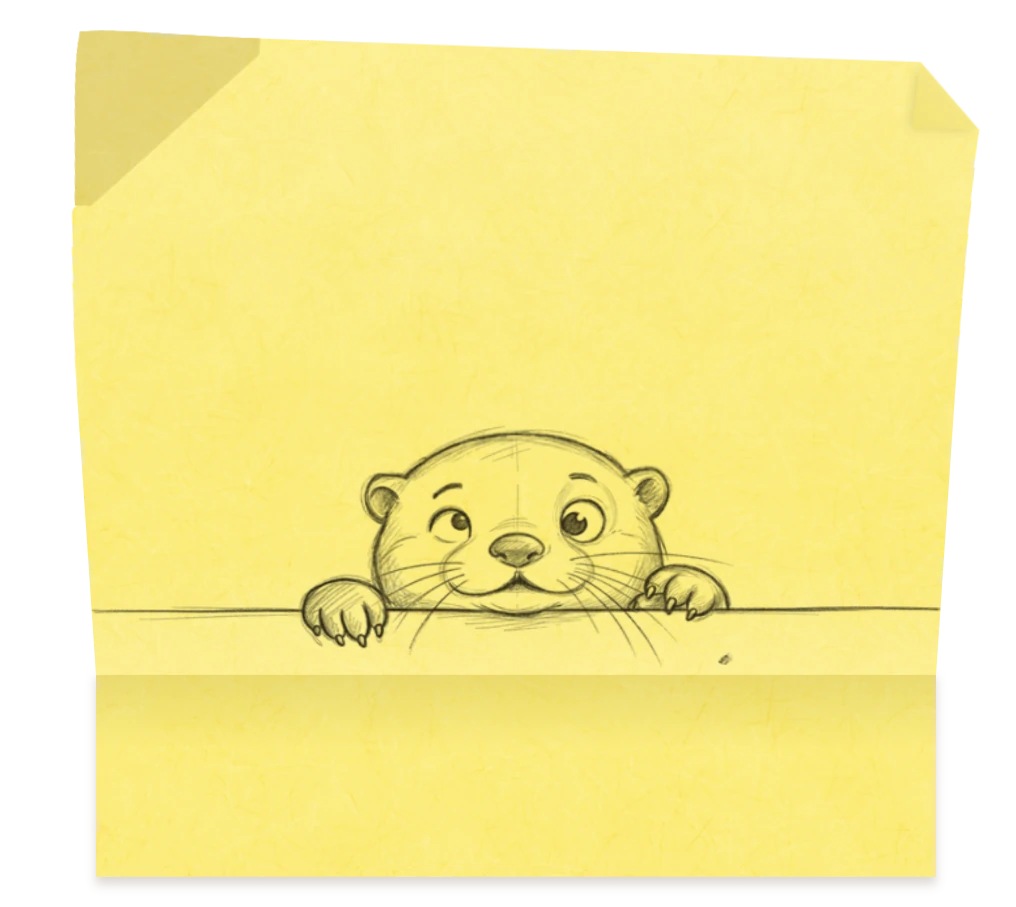
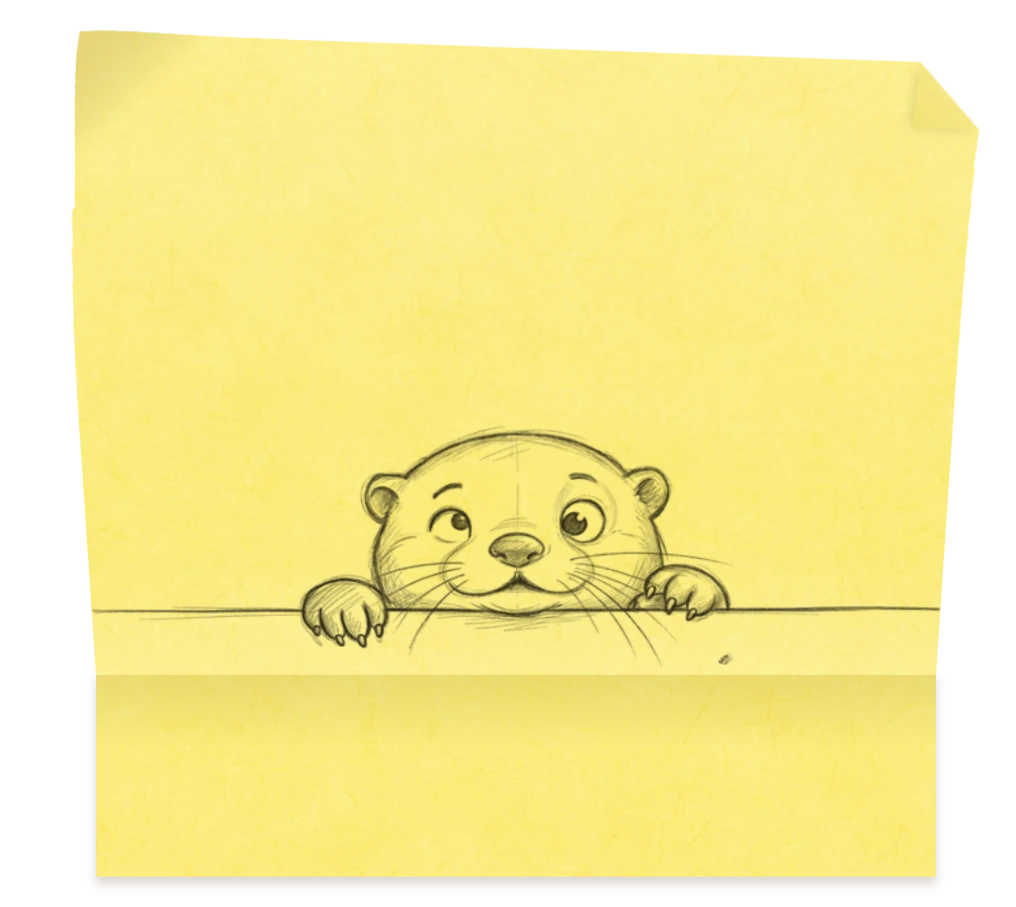
Landing: a sharp hero on phones, and iOS's post-it at its own shape
On an iPhone 13 the hero was soft: the pages' drawing canvas covered the
whole frame at two pixels to a CSS pixel (0.67 of the screen's), and the
1080p stills were drawn 1.28 times their size.

- The drawing's canvas covers only the pages (DRAWN_BOX, their outlines
  and a few pixels) at the screen's every pixel: 1128x759 at 1.0 on the
  phone, 43% fewer pixels than before; 4.2x fewer on a laptop, same
  sharpness there.
- Upright, a page's picture is as tall as the canvas draws it: 1.2 times
  over was drawn partly through its half-size mipmap. Live canvas memory
  on the phone 55 -> 39 MB.
- Phones get the 4K stills cut to the spread at 0.7 (1792x1512 webp,
  half the bytes of the 1080p), placed on the frame by the same query.
- iOS's flat post-it picture is wider than the note for its shadow; the
  base img max-width held it to the note, 17% too narrow. Its size is
  now checked by check:arrival.
- The flat pictures baked again: the bake's background-size selector
  also caught the curl's shade, stretching it into a hard dark triangle.

Changed region(s): [[0.061, 0.0309, 0.2746, 0.2161]]

diff --git a/src/app/landing/VideoHero.tsx b/src/app/landing/VideoHero.tsx
@@ -27,7 +27,7 @@ import { preload } from "react-dom";
 import type { LandingSpread } from "./spreads";
 import { Wordmark } from "./Wordmark";
 import { HAND_FONT_CLASSES } from "./handFonts";
-import { HERO_VIDEO, PAGE_OUTLINES } from "./video/heroVideo";
+import { DRAWN_BOX, HERO_VIDEO, PAGE_OUTLINES } from "./video/heroVideo";
 import { BOOK_ON_SHEETS, sheetClip, sheetShows, SHEET_IDS, SHEETS, sheetPath } from "./video/sheets";
 import { loadPicture, paintPicture } from "./video/canvasPicture";
 import { bakeHero, heroInStage } from "./video/heroBake";
@@ -81,13 +81,25 @@ heroPieces?.catch(() => {});
  *  arrives whole. */
 function preloadHero() {
   const high = { as: "image", fetchPriority: "high" } as const;
-  preload(HERO_VIDEO.dots, high);
+  // the phone's own cut of the frame there, the 1080p one elsewhere: not
+  // both (the 4K one still comes on top of it where its screens are)
+  preload(HERO_VIDEO.dotsPhone, { ...high, media: HERO_VIDEO.phone });
+  preload(HERO_VIDEO.dots, { ...high, media: `not all and ${HERO_VIDEO.phone}` });
   preload(HERO_VIDEO.dots4k, { ...high, media: HERO_VIDEO.media4k });
   // the desk beyond the frame shows only on a screen wider than tall: a
   // phone held upright fetched 330 KB of it for nothing (2026-11-04)
   for (const side of ["left", "right"] as const) preload(`/landing/hero-extend-${side}.webp`, { ...high, media: WIDE });
   for (const id of SHEET_IDS) preload(sheetPath(id), high);
 }
+
+/** The drawing's canvas on the stage: over DRAWN_BOX, the pages' part of
+ *  the frame, as the loose sheets are placed on theirs. */
+const DRAWN_PLACE = {
+  left: `${(DRAWN_BOX.x / HERO_VIDEO.width) * 100}%`,
+  top: `${(DRAWN_BOX.y / HERO_VIDEO.height) * 100}%`,
+  width: `${(DRAWN_BOX.width / HERO_VIDEO.width) * 100}%`,
+  height: `${(DRAWN_BOX.height / HERO_VIDEO.height) * 100}%`,
+};
 
 /** A screen wider than tall: the hero with the desk beyond the frame's sides
  *  (landing.module.css). */
@@ -415,17 +427,20 @@ export function VideoHero() {
       let warp: InstanceType<typeof PageWarp>;
       const pictures: HTMLCanvasElement[] = [];
       const dirty = [false, false];
-      // As many pixels as the stage shows, at most the frame's - and at most
-      // two to a CSS pixel: a 3x phone's stage is twice its screen wide, and
-      // its book's lines are finer than a third pixel would show (2026-11-04:
-      // half the memory, on the iPhone where the hero went dark).
-      const across = Math.min(HERO_VIDEO.width, Math.ceil((canvas.parentElement?.clientWidth ?? HERO_VIDEO.width) * Math.min(window.devicePixelRatio, 2)));
+      // Over the pages' part of the frame only (DRAWN_BOX), with as many
+      // pixels as the screen shows it there - at most the frame's own
+      // (2026-11-05: "it is blurry on mobile"). It covered the whole frame
+      // at two to a CSS pixel until then (2026-11-04, for memory): on a 3x
+      // phone the pages' lines and writing were drawn 1.5 times their
+      // pixels, from a canvas with nearly twice the pixels this one has.
+      const shown = ((canvas.parentElement?.clientWidth ?? HERO_VIDEO.width) * DRAWN_BOX.width) / HERO_VIDEO.width;
+      const across = Math.min(DRAWN_BOX.width, Math.ceil(shown * Math.min(window.devicePixelRatio, 3)));
       try {
         warp = new PageWarp(
           canvas,
           [PAGE_OUTLINES.left, PAGE_OUTLINES.right],
-          HERO_VIDEO,
-          { width: across, height: Math.round((across * HERO_VIDEO.height) / HERO_VIDEO.width) },
+          DRAWN_BOX,
+          { width: across, height: Math.round((across * DRAWN_BOX.height) / DRAWN_BOX.width) },
           {
             // The browser took the canvas back (a phone short of memory, the
             // app in the background): put away, not left to show black
@@ -443,14 +458,16 @@ export function VideoHero() {
         // No WebGL: the book stays open on its dot grid.
         return;
       }
-      // Upright (a phone), as tall as the page is shown there in device
-      // pixels and a little over (2026-11-04): 1448 on a 390px phone, whose
-      // page shows about 250px tall, made each of the four pages' six
-      // canvases 6 MB - 136 MB, on the iPhone that crashed. A laptop keeps
-      // the sizes the ink was judged at (see handwriting/paperInk.ts).
-      const pageShown = (1172 / HERO_VIDEO.height) * (hero.current?.clientHeight ?? 600) * Math.min(window.devicePixelRatio, 3);
+      // Upright (a phone), a page's picture as tall as the canvas draws the
+      // pages (1172 of the frame, top to bottom), pixel for pixel: 1448 on a
+      // 390px phone made each of the four pages' six canvases 6 MB - 136 MB,
+      // on the iPhone that crashed (2026-11-04) - and even 1.2 times over, as
+      // it was then, is drawn a quarter through its half-size mipmap, softly
+      // (2026-11-05). A laptop keeps the sizes the ink was judged at (see
+      // handwriting/paperInk.ts).
+      const pageInCanvas = (1172 * across) / DRAWN_BOX.width;
       const textureHeight = !window.matchMedia(WIDE).matches
-        ? Math.round(Math.min(1448, Math.max(640, pageShown * 1.2)))
+        ? Math.round(Math.min(1448, Math.max(640, pageInCanvas)))
         : window.devicePixelRatio >= 2 && window.innerWidth > 900
           ? 2048
           : 1448;
@@ -596,6 +613,7 @@ export function VideoHero() {
             one is wanted only once the layouts come, so it waits its turn
             and the curtain does not wait for it (data-arrival-skip). */}
         <picture>
+          <source media={HERO_VIDEO.phone} srcSet={HERO_VIDEO.lastPhone} />
           <source media={HERO_VIDEO.media4k} srcSet={HERO_VIDEO.last4k} />
           <img
             ref={cleanPicture}
@@ -609,6 +627,7 @@ export function VideoHero() {
         </picture>
         <canvas ref={cleanFrame} className={styles.videoStill} style={{ visibility: cleanUp ? "visible" : "hidden" }} />
         <picture>
+          <source media={HERO_VIDEO.phone} srcSet={HERO_VIDEO.dotsPhone} />
           <source media={HERO_VIDEO.media4k} srcSet={HERO_VIDEO.dots4k} />
           <img
             className={`${styles.videoStill} ${styles.videoStillPicture}`}
@@ -671,7 +690,7 @@ export function VideoHero() {
             onTransitionEnd={() => setDotsGone(true)}
           />
         </div>
-        <canvas ref={overlay} className={styles.videoDrawing} style={{ opacity: drawn && !glLost ? 1 : 0, transition: fade }} />
+        <canvas ref={overlay} className={styles.videoDrawing} style={{ ...DRAWN_PLACE, opacity: drawn && !glLost ? 1 : 0, transition: fade }} />
       </div>
       <div className={styles.liveLayers} aria-hidden="true">
         {/* The blur toward the screen's sides - see .sideBlur. */}

diff --git a/src/app/landing/video/heroVideo.ts b/src/app/landing/video/heroVideo.ts
@@ -58,6 +58,17 @@ export const HERO_VIDEO = {
    *  last frame, 111 of 111. */
   last: "/landing/hero-open-last.jpg",
   last4k: "/landing/hero-open-last-4k.webp",
+  /** A phone held upright (the hero's own query for it, landing.module.css):
+   *  the same two frames cut to the spread and some desk either side - more
+   *  than a phone ever shows of the frame (at most about 2,450px of it, a
+   *  square 760px window) - at 0.7 of 4K, as sharp as a 3x phone shows them
+   *  (2026-11-05: "it is blurry on mobile"; the 1080p frames were drawn
+   *  1.28 times their size there). Placed on the frame by phoneCrop. Made
+   *  from the 4K frames (Lanczos, webp 86): half the bytes of the 1080p. */
+  phone: "(max-aspect-ratio: 1/1) and (max-width: 760px)",
+  dotsPhone: "/landing/hero-open-dots-phone.webp",
+  lastPhone: "/landing/hero-open-last-phone.webp",
+  phoneCrop: { x: 653, width: 2560 },
   width: 3840,
   height: 2160,
 };
@@ -114,3 +125,22 @@ export const SPREAD_CENTRE: Point = [1933, 1248];
 /** How much of the frame a phone fits across its width: the spread cover to
  *  cover (about 1,795px) and a sliver of desk either side. */
 export const SPREAD_WIDTH = 1840;
+
+/** The part of the frame the pages' drawing can reach: both pages' outlines
+ *  (a page's mesh only blends between their points, pageWarp.ts) and a few
+ *  pixels round for the edges' smoothing. The drawing's canvas covers this
+ *  alone (2026-11-05), not the whole frame - which is mostly desk, and on a
+ *  phone mostly off the screen - so it can have the screen's every pixel
+ *  for fewer than it had. About 1766 x 1188. */
+export const DRAWN_BOX = (() => {
+  const points = [PAGE_OUTLINES.left, PAGE_OUTLINES.right].flatMap((o) => [o.aTop, o.aBottom, o.bTop, o.bBottom, ...o.top, ...o.bottom]);
+  const pad = 8;
+  const x = Math.floor(Math.min(...points.map((p) => p[0])) - pad);
+  const y = Math.floor(Math.min(...points.map((p) => p[1])) - pad);
+  return {
+    x,
+    y,
+    width: Math.ceil(Math.max(...points.map((p) => p[0])) + pad) - x,
+    height: Math.ceil(Math.max(...points.map((p) => p[1])) + pad) - y,
+  };
+})();

diff --git a/src/app/landing/video/pageWarp.ts b/src/app/landing/video/pageWarp.ts
@@ -1,7 +1,7 @@
 // Lays two page pictures onto the pages of a video frame.
 //
-// A WebGL canvas the size of the video frame, placed over it with the same
-// object-fit, cleared to white and multiplied onto the video (CSS
+// A WebGL canvas over the part of the video frame the pages lie in (its
+// `frame`, DRAWN_BOX), cleared to white and multiplied onto the video (CSS
 // mix-blend-mode): where it is white nothing changes, and the printed
 // layout and the ink darken the page the camera saw - its paper, its warm
 // light and the leaf shadows across it all come through, so the drawing
@@ -91,7 +91,9 @@ export class PageWarp {
   constructor(
     private readonly canvas: HTMLCanvasElement,
     private readonly outlines: readonly [PageOutline, PageOutline],
-    private readonly frame: { width: number; height: number },
+    /** The part of the video frame the canvas covers, in the frame's
+     *  pixels (from its top left, x and y; the whole frame without them). */
+    private readonly frame: { x?: number; y?: number; width: number; height: number },
     /** The canvas's own size in pixels - the outlines stay in the frame's.
      *  A 4K frame need not mean a 4K canvas on a phone. */
     pixels: { width: number; height: number } = frame,
@@ -134,13 +136,13 @@ export class PageWarp {
     return program;
   }
 
-  private mesh(outline: PageOutline, frame: { width: number; height: number }): Mesh {
+  private mesh(outline: PageOutline, frame: { x?: number; y?: number; width: number; height: number }): Mesh {
     const gl = this.gl;
     // Two triangles per cell: x, y (clip space), u, v.
     const data: number[] = [];
     const vertex = (u: number, v: number) => {
       const [x, y] = placeOnPage(outline, u, v);
-      data.push((x / frame.width) * 2 - 1, 1 - (y / frame.height) * 2, u, v);
+      data.push(((x - (frame.x ?? 0)) / frame.width) * 2 - 1, 1 - ((y - (frame.y ?? 0)) / frame.height) * 2, u, v);
     };
     for (let j = 0; j < ROWS; j++) {
       for (let i = 0; i < COLUMNS; i++) {

diff --git a/src/app/landing/PostIt.tsx b/src/app/landing/PostIt.tsx
@@ -211,6 +211,10 @@ export function PostIt() {
               top: `calc(var(--note) * ${flat.y})`,
               width: `calc(var(--note) * ${flat.w})`,
               height: `calc(var(--note) * ${flat.h})`,
+              // wider than the note, for its shadow: the site's images are
+              // held to their box's width (Tailwind's base), which narrowed
+              // it to the note's - 17% too thin, on every iPhone (2026-11-05)
+              maxWidth: "none",
               visibility: s === pose ? "visible" : "hidden",
             }}
           />

diff --git a/src/app/landing/landing.module.css b/src/app/landing/landing.module.css
@@ -1193,6 +1193,12 @@
   .page .body {
     --note: clamp(92px, calc(var(--hero-h) * 0.21), 124px);
   }
+  /* The resting frames' phone cut (HERO_VIDEO.phone, the same query): on
+     the part of the frame it is, x 653 for 2560 of 3840, all its height. */
+  .videoStillPicture {
+    left: calc(100% * 653 / 3840);
+    width: calc(100% * 2560 / 3840);
+  }
 }
 
 .srOnly {
